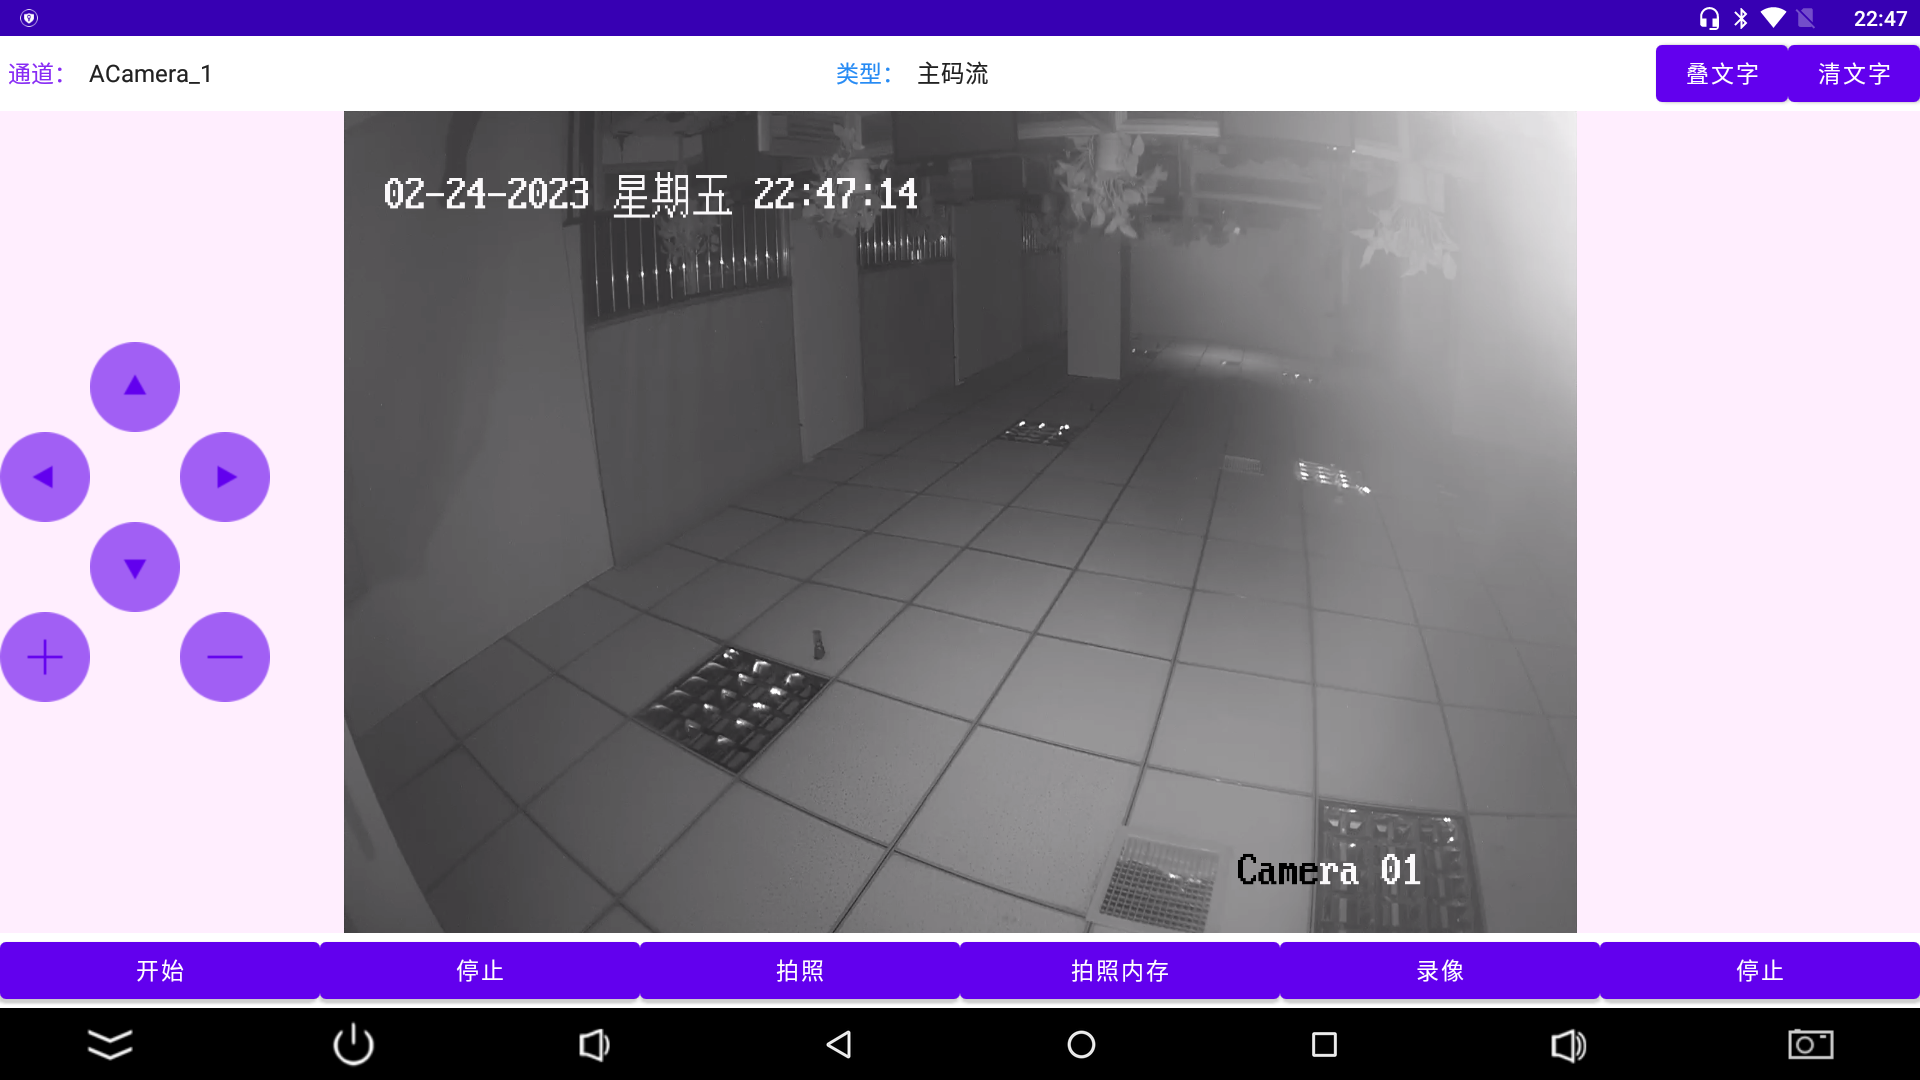
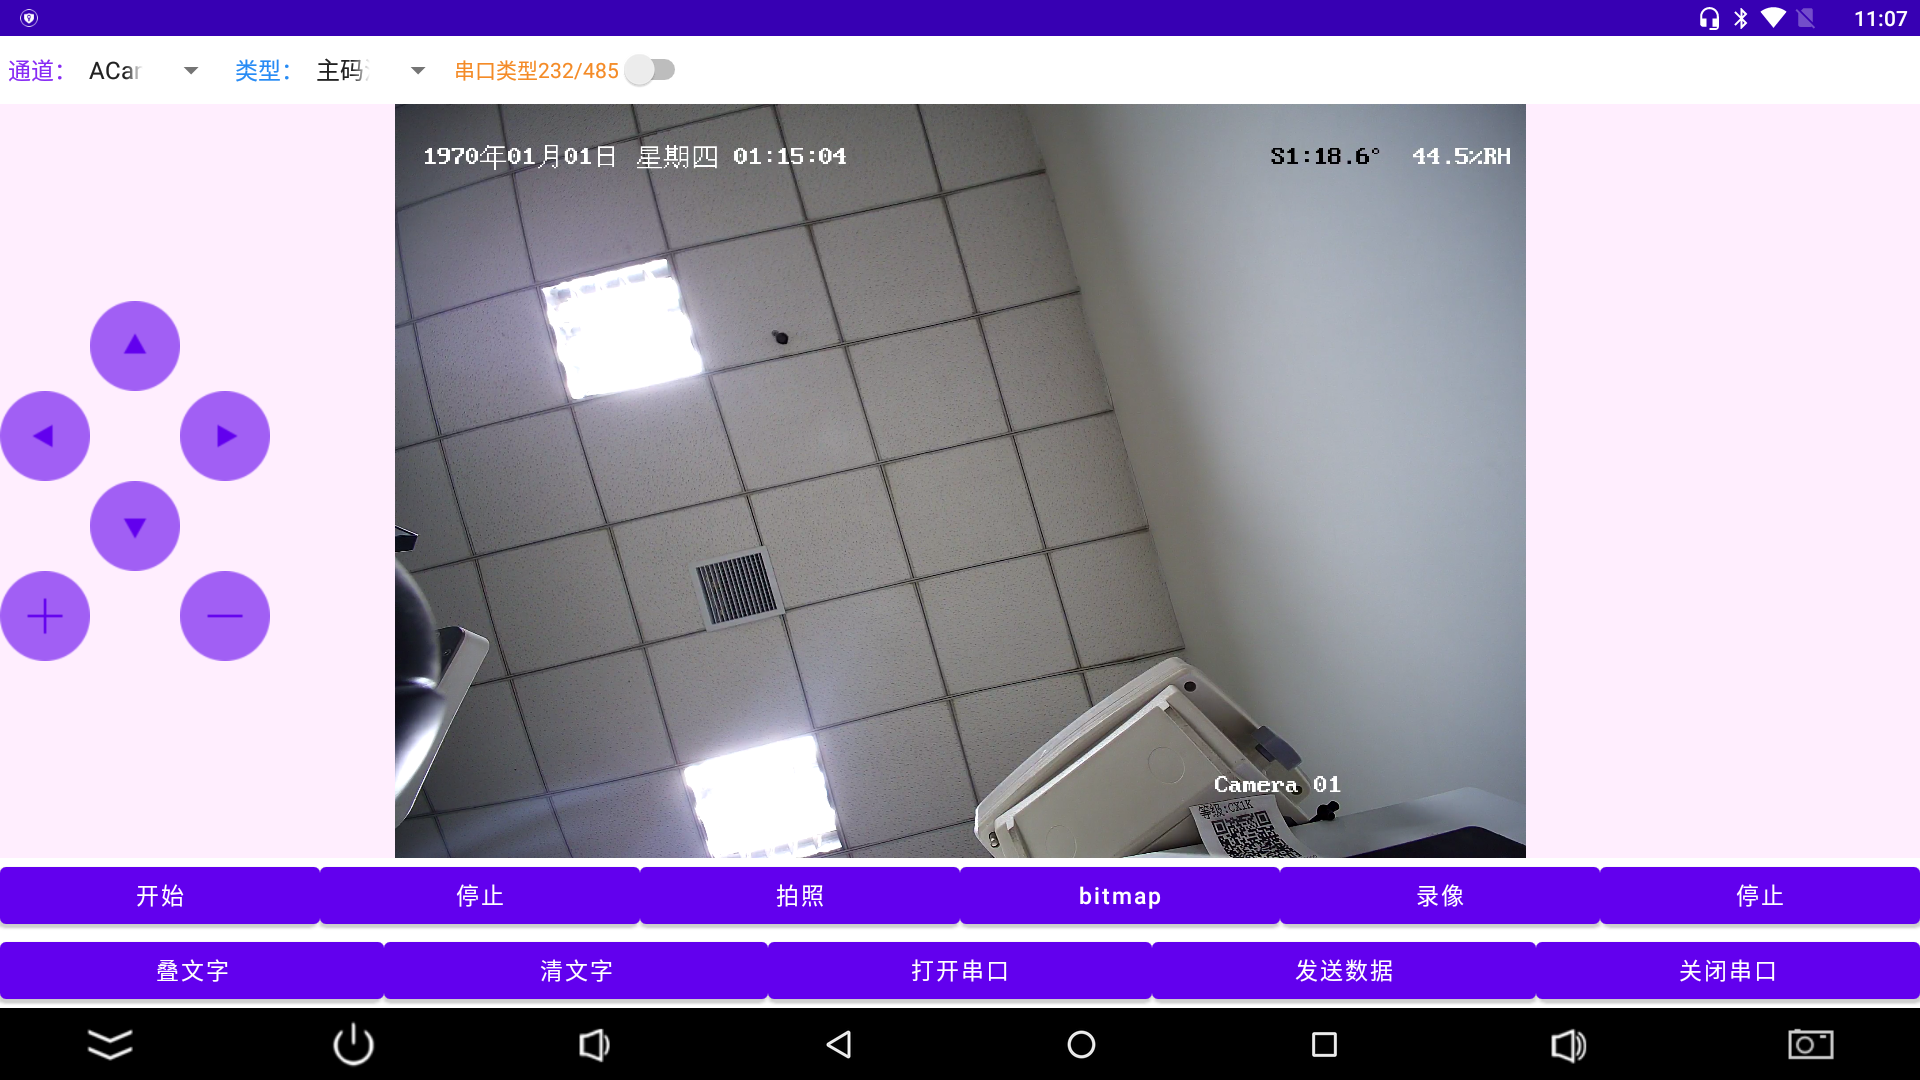
新增串口收发数据

diff --git a/app/src/main/java/com/hcnetsdk/HKCamera.kt b/app/src/main/java/com/hcnetsdk/HKCamera.kt
@@ -56,6 +56,7 @@ class HKCamera(var surfaceView: SurfaceView) {
     var m_byStartChan = 0 //start analog channel
     var m_IPChanNum = 0 //digital channel nums
     var m_byStartDChan = 0 //start digital channel
+    var m_iSendDataHandle = -1 //串口数据handle
 
     var isLogin = false
     var devName = "CameraName"
@@ -331,6 +332,84 @@ class HKCamera(var surfaceView: SurfaceView) {
         }
     }
 
+    /**
+     * 打开串口
+     * @param serialPortType 1为232 2为485
+     * @param callBack 回调函数
+     */
+    fun openSerialTrans(serialPortType: Int = 1/*1为232 2为485*/, callBack: SerialDataCallBack): Boolean {
+        return if (m_iSendDataHandle == -1) {
+            //String strHexData = str2HexStr( byteArrayToStr(byRecvBuf));
+            m_iSendDataHandle = SDKGuider.g_sdkGuider.m_comSerialTransGuider.NET_DVR_SerialStart_jni(m_iUserID, serialPortType, callBack)
+            if (m_iSendDataHandle == -1) {
+                Log.e(TAG, "打开串行通道失败" + HCNetSDK.getInstance().NET_DVR_GetLastError())
+                return false
+            }
+            true
+        } else {
+            Log.i(TAG, "您已打开串行通道")
+            true
+        }
+    }
+
+    /**
+     * 关闭串口
+     */
+    fun closeSerialTrans(): Boolean {
+        return if (m_iSendDataHandle != -1) {
+            if (!SDKGuider.g_sdkGuider.m_comSerialTransGuider.NET_DVR_SerialStop_jni(m_iSendDataHandle)) {
+                Log.e(TAG, "关闭串行通道失败" + HCNetSDK.getInstance().NET_DVR_GetLastError())
+                return false
+            }
+            m_iSendDataHandle = -1
+            true
+        } else {
+            Log.i(TAG, "请先打开打开串行通道")
+            false
+        }
+    }
+
+    /**
+     * 向串口发送数据
+     * @param serialChannel 串口通道 获取一共多少个通达 int iChannelNum = (int) m_deviceInfo.m_struDeviceInfoV40_jna.struDeviceV30.byChanNum; 重新1开始数，比如iChannelNum=2，那么就是1,2
+     * @param byteArray 发送的数据
+     */
+    fun sendSerialPort(byteArray: ByteArray, serialChannel: Int = 1): Boolean {
+        if (!SDKGuider.g_sdkGuider.m_comSerialTransGuider.NET_DVR_SerialSend_jni(m_iSendDataHandle, serialChannel, byteArray, byteArray.size)) {
+            Log.e(TAG, "发送数据失败：" + HCNetSDK.getInstance().NET_DVR_GetLastError())
+            return false
+        }
+        Log.d(TAG, "发送数据成功")
+        return true
+    }
+
+    /**
+     * 向串口发送数据
+     * @param serialPortType 串口类型 1为232 2为485
+     * @param serialChannel 串口通道 获取一共多少个通达： var iChannelNum = deviceInfo.m_struDeviceInfoV40_jna.struDeviceV30.byChanNum 重新1开始数，比如iChannelNum=2，那么就是1,2
+     * @param byteArray 发送的数据
+     */
+    fun sendSerialPort(byteArray: ByteArray, serialChannel: Int = 1, serialPortType: Int = 1/*1为232 2为485*/): Boolean {
+        if (!SDKGuider.g_sdkGuider.m_comSerialTransGuider.NET_DVR_SendToSerialPort_jni(m_iUserID, serialPortType, serialChannel, byteArray, byteArray.size)) {
+            Log.e(TAG, "发送数据失败：" + HCNetSDK.getInstance().NET_DVR_GetLastError())
+            return false
+        }
+        Log.d(TAG, "发送数据成功")
+        return true
+    }
+
+    /**
+     * 向串口发送数据
+     * @param byteArray 发送的数据
+     */
+    fun sendSerialPort232(byteArray: ByteArray): Boolean {
+        if (!SDKGuider.g_sdkGuider.m_comSerialTransGuider.NET_DVR_SendTo232Port_jni(m_iUserID, byteArray, byteArray.size)) {
+            Log.e(TAG, "发送数据失败：" + HCNetSDK.getInstance().NET_DVR_GetLastError())
+            return false
+        }
+        Log.d(TAG, "发送数据成功")
+        return true
+    }
     fun destroy() {
         //停止播放
         if (m_iPreviewHandle != -1) {
@@ -343,5 +422,14 @@ class HKCamera(var surfaceView: SurfaceView) {
         } else {
             Log.e(TAG, "退出登录失败：" + SDKGuider.g_sdkGuider.GetLastError_jni())
         }
+        m_iPreviewHandle = -1 // playback
+        m_iSelectChannel = 1 //选择的通道
+        m_iSelectStreamType = 0 //选择的流类型
+        m_iUserID = -1 // return by NET_DVR_Login_v30
+        m_byChanNum = 0 // analog channel nums
+        m_byStartChan = 0 //start analog channel
+        m_IPChanNum = 0 //digital channel nums
+        m_byStartDChan = 0 //start digital channel
+        m_iSendDataHandle = -1 //串口数据handle
     }
 }

diff --git a/app/src/main/java/com/kotlinx/hk/Main.kt b/app/src/main/java/com/kotlinx/hk/Main.kt
@@ -13,10 +13,7 @@ import androidx.appcompat.app.AppCompatActivity
 import androidx.databinding.DataBindingUtil
 import com.hcnetsdk.HKCamera
 import com.kotlinx.hk.databinding.ActivityFragPreviewSurfaceviewBinding
-import com.yujing.utils.TTS
-import com.yujing.utils.YImageDialog
-import com.yujing.utils.YPermissions
-import com.yujing.utils.YToast
+import com.yujing.utils.*
 import java.util.regex.Pattern
 
 /**
@@ -44,10 +41,10 @@ class Main : AppCompatActivity() {
 
         hkCamera = HKCamera(binding.SurfacePreviewPlay).apply {
             devName = "余静的摄像头"
-            ip = "192.168.1.70"
+            ip = "192.168.1.31"
             port = "8000"
             username = "admin"
-            password = "pw&123456"
+            password = "pw@123456"
         }
         hkCamera.init()
 
@@ -94,14 +91,6 @@ class Main : AppCompatActivity() {
             override fun onNothingSelected(adapterView: AdapterView<*>?) {}
         }
     }
-
-
-    fun getChannel(inPutStr: String?): String {
-        val p = Pattern.compile("[^0-9]")
-        val m = p.matcher(inPutStr)
-        return m.replaceAll("").trim { it <= ' ' }
-    }
-
 
     fun onClick(v: View) {
         when (v.id) {
@@ -165,9 +154,25 @@ class Main : AppCompatActivity() {
             R.id.button_clear_text -> {
                 hkCamera.showString("")
             }
+            R.id.button_open_serialPort -> {
+                val success = hkCamera.openSerialTrans(if (binding.serialPortType.isChecked) 2 else 1) { iSerialHandle, bytes, iBufSize ->
+                    val hex = YConvert.bytesToHexString(bytes)
+                    YToast.show("收到内容：${hex}")
+                }
+                YToast.show("打开串口${if (success) "成功" else "失败"}", Toast.LENGTH_SHORT)
+            }
+            R.id.button_send_serialPort -> {
+                val success = hkCamera.sendSerialPort("123".toByteArray(), 1, if (binding.serialPortType.isChecked) 2 else 1)
+                YToast.show("发送数据${if (success) "成功" else "失败"}", Toast.LENGTH_SHORT)
+            }
+            R.id.button_close_serialPort -> {
+                val success = hkCamera.closeSerialTrans()
+                YToast.show("关闭串口${if (success) "成功" else "失败"}", Toast.LENGTH_SHORT)
+            }
         }
     }
 
+    //按下事件监听
     private val touchListener = View.OnTouchListener { v, event ->
         Log.d("log", "touch:${v.id} ${event!!.action}")
         Thread {
@@ -225,6 +230,12 @@ class Main : AppCompatActivity() {
         }.start()
         v.performClick()
         false
+    }
+
+    fun getChannel(inPutStr: String?): String {
+        val p = Pattern.compile("[^0-9]")
+        val m = p.matcher(inPutStr)
+        return m.replaceAll("").trim { it <= ' ' }
     }
 
     override fun onDestroy() {
